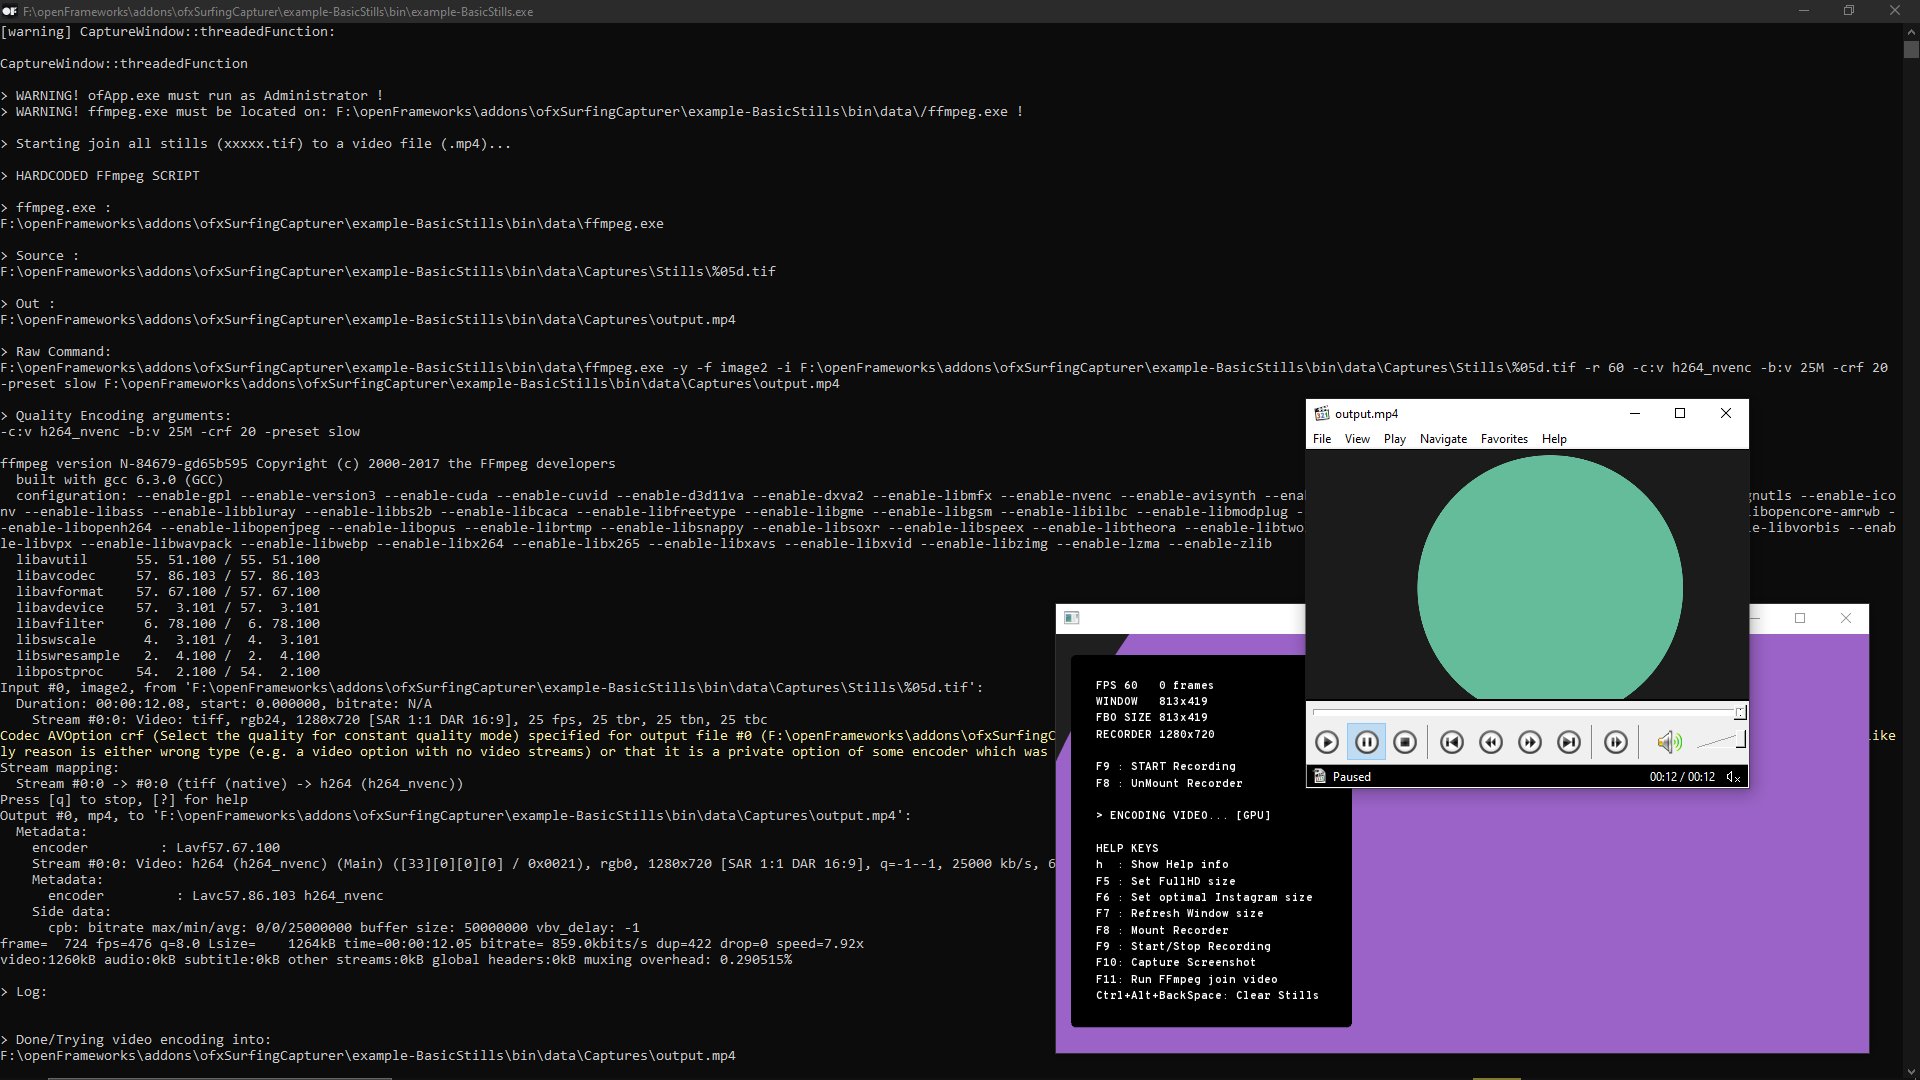
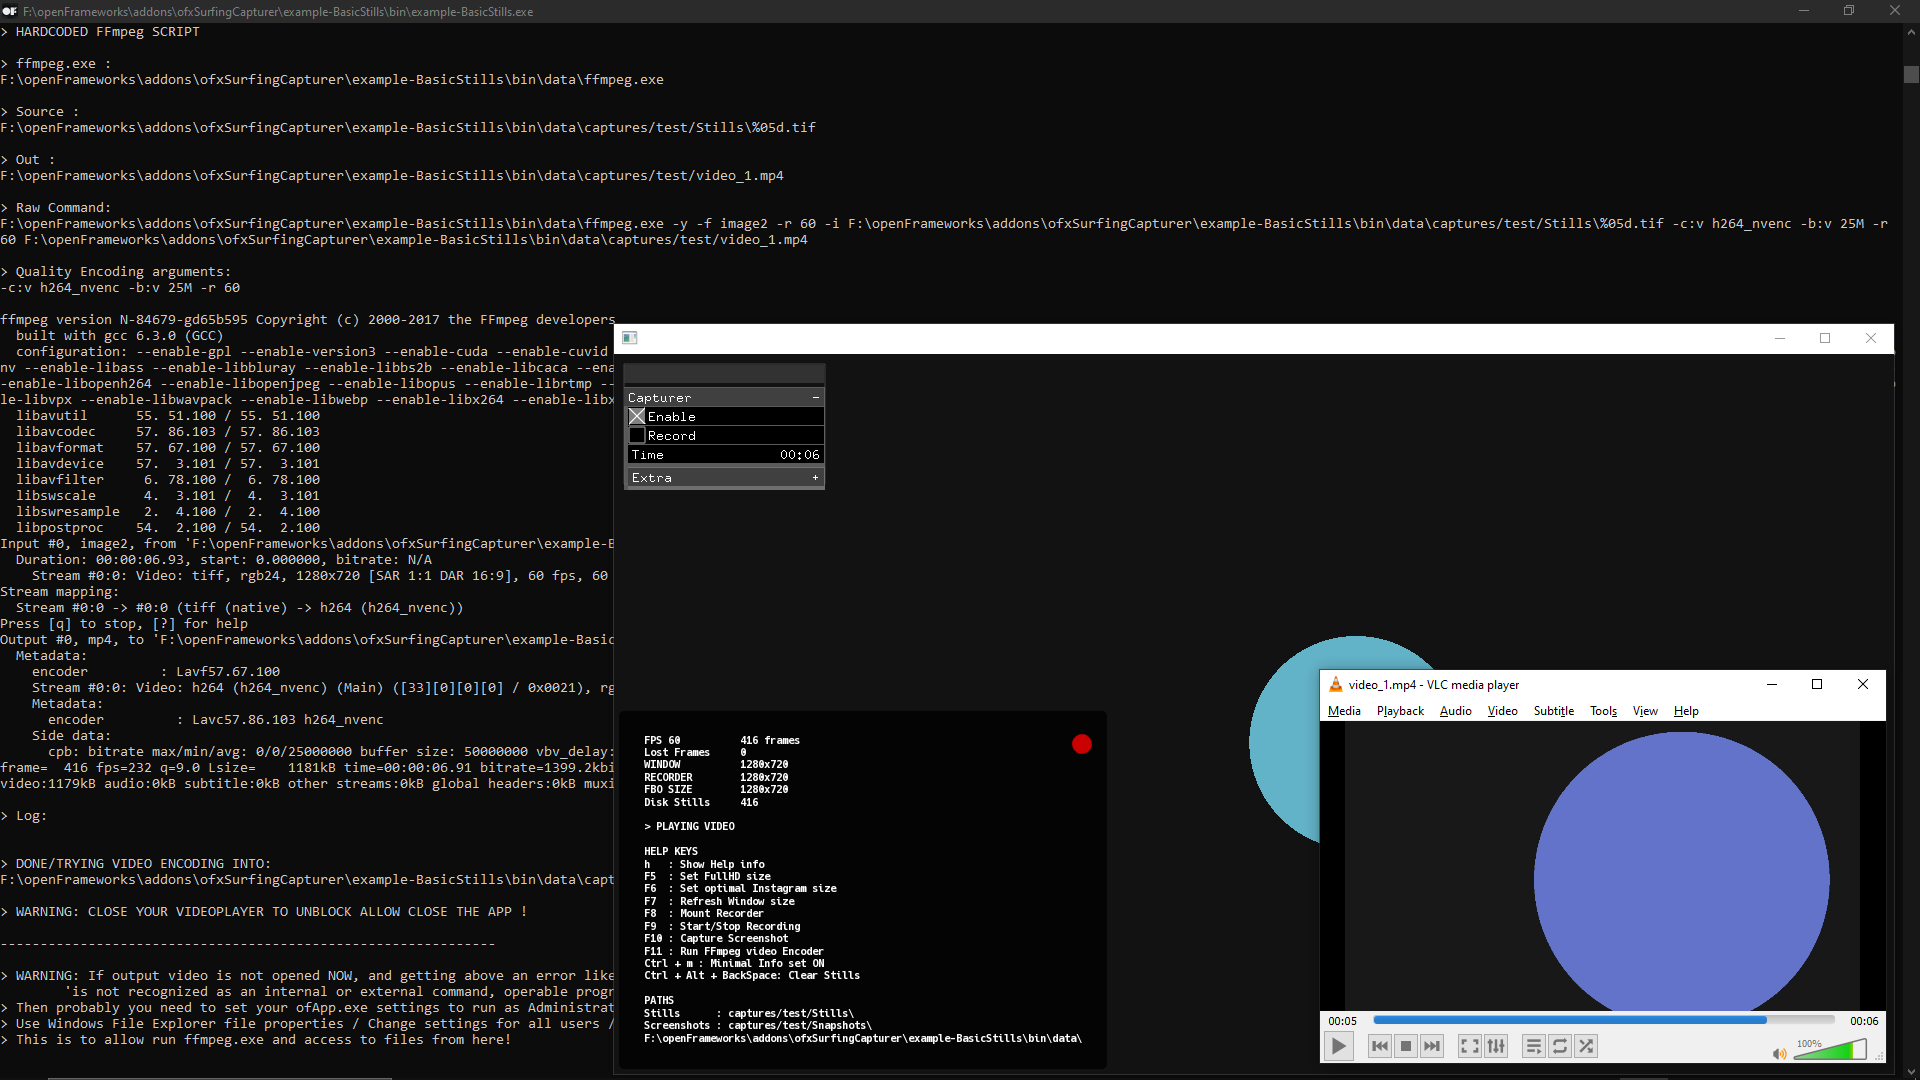
update screenshots

diff --git a/src/ofxSurfing_CaptureWindowStills.h b/src/ofxSurfing_CaptureWindowStills.h
@@ -3,27 +3,16 @@
 #include "ofMain.h"
 
 //	TODO: 
+// + add custom section to gui too
 // + check/allow change window capture size without breaking the capturer. not it's posible before call setup()
 // + allow gif exporter: https://github.com/pierrep/ofxGifImage
 // + allow instagram ready export
 // + draw rectangle draggable border
 //
-//	NOTES:
+//
+//	FFmpef NOTES:
 // nice settings handling and binaries: we can copy things from here
 // https://github.com/tyhenry/ofxFFmpeg/blob/master/src/ofxFFmpeg.h
-//
-// Add - vf format = yuv420p(or the alias - pix_fmt yuv420p) as an output option
-// ffmpeg -framerate 30 -i input_%05d.png -vf format=yuv420p output.mp4
-// Otherwise ffmpeg will attempt to preserve as much color information as it can, but most players can only decode YUV 4:2 : 0.
-//
-// troubles with non black encoding:
-// ffmpeg
-//-i "InputVideo2700p.mp4"
-//- vf "scale=w=-2:h=1920:sws_flags=spline+accurate_rnd:in_range=tv:out_range=tv"
-//- c:v libx264
-//- colorspace bt709 - color_trc bt709 - color_primaries bt709 - color_range tv
-//- pix_fmt yuv420p
-//- an - f mp4 "OutputVideo1920p.mp4"
 // https://www.reddit.com/r/ffmpeg/comments/8t54bm/converting_yuvj420p_to_yuv420p_issues_with_black/
 
 
@@ -40,11 +29,11 @@
 #define ANTIALIAS_NUM_SAMPLES 16 // only used on depth mode
 
 // platforms
-#ifdef TARGET_OSX
+#ifdef TARGET_OSX// tested without AMD GPU
 #endif
 #ifdef TARGET_WIN32
 #endif
-//#ifdef TARGET_LINUX
+//#ifdef TARGET_LINUX// not tested
 //#endif
 
 class CaptureWindow : public ofBaseApp, public ofThread
@@ -69,7 +58,7 @@ private:
 
 	//--------------------------------------------------------------
 	void Changed_params(ofAbstractParameter &e) {
-		if (!bDisableCallbacks) 
+		if (!bDisableCallbacks)
 		{
 			std::string name = e.getName();
 			if (name != timer_str.getName())
@@ -385,7 +374,6 @@ public:
 		cap_Fbo.allocate(cap_Fbo_Settings);
 		cap_Fbo.begin();
 		ofClear(0, 255);
-		//ofClear(0);
 		cap_Fbo.end();
 
 		// TODO:
@@ -395,7 +383,6 @@ public:
 			blitFbo.allocate(cap_Fbo_Settings);
 			blitFbo.begin();
 			ofClear(0, 255);
-			//ofClear(0);
 			blitFbo.end();
 		}
 	}
@@ -486,16 +473,6 @@ public:
 	void draw() {// must draw the scene content to show
 		if (bActive)
 		{
-			//blitFbo.begin();
-			//{
-			//	ofClear(0, 255);
-			//	//ofClear(0);
-			//	cap_Fbo.draw(0, 0, cap_w, cap_h);
-			//}
-			//blitFbo.end();
-			//blitFbo.draw(0, 0);
-
-			// TODO:
 			// BUG: depth/antialias
 			if (bDepth3D)
 			{
@@ -611,7 +588,8 @@ public:
 					{
 						info += "> PRESS F8  TO MOUNT CAPTURER" + sp + "\n";
 						info += "> PRESS F10 TO TAKE SNAPSHOT\n";
-						if (bShowMinimal) info += "> PRESS Ctrl + m TO SET MINIMAL INFO " + ofToString(!bShowMinimal ? "ON" : "OFF") + "\n";
+						if (bShowMinimal) info += "> PRESS M TO SET MINIMAL INFO " + ofToString(!bShowMinimal ? "ON" : "OFF") + "\n";
+						//if (bShowMinimal) info += "> PRESS Ctrl + m TO SET MINIMAL INFO " + ofToString(!bShowMinimal ? "ON" : "OFF") + "\n";
 					}
 
 					// 2. mounted, recording or running ffmpeg script
@@ -848,6 +826,18 @@ public:
 			bool mod_ALT = eventArgs.hasModifier(OF_KEY_ALT);
 			bool mod_SHIFT = eventArgs.hasModifier(OF_KEY_SHIFT);
 
+
+
+			// toggle show minimal
+			if (key == 'M')// && mod_CONTROL)
+			{
+				//if (!mod_SHIFT && !mod_ALT && mod_CONTROL) 
+				{
+					setToggleShowMinimal();
+					ofLogNotice(__FUNCTION__) << "bShowMinimal: " << (bShowMinimal ? "ON" : "OFF");
+				}
+			}
+
 			//-
 
 			switch (key)
@@ -862,17 +852,16 @@ public:
 				setToggleVisibleInfo();
 				break;
 
-				// toggle show minimal
-			case 'm':
-			{
-				if (!mod_SHIFT && !mod_ALT && mod_CONTROL) {
-					setToggleShowMinimal();
-					ofLogNotice(__FUNCTION__) << "bShowMinimal: " << (bShowMinimal ? "ON" : "OFF");
-				}
-			}
-			break;
+				//	// toggle show minimal
+				//case 'm':
+				//{
+				//	if (!mod_SHIFT && !mod_ALT && mod_CONTROL) {
+				//		setToggleShowMinimal();
+				//		ofLogNotice(__FUNCTION__) << "bShowMinimal: " << (bShowMinimal ? "ON" : "OFF");
+				//	}
+				//}
 
-			// set Full HD
+				// set Full HD
 			case OF_KEY_F5:
 			{
 				ofSetWindowShape(1920, 1080);
@@ -1014,7 +1003,8 @@ private:
 
 		infoHelpKeys += "F10 : Capture Screenshot"; infoHelpKeys += "\n";
 		infoHelpKeys += "F11 : Run FFmpeg video Encoder"; infoHelpKeys += "\n";
-		infoHelpKeys += "Ctrl + m : Minimal Info set " + ofToString(!bShowMinimal ? "ON" : "OFF") + "\n";
+		infoHelpKeys += "M   : Minimal Info set " + ofToString(!bShowMinimal ? "ON" : "OFF") + "\n";
+		//infoHelpKeys += "Ctrl + m : Minimal Info set " + ofToString(!bShowMinimal ? "ON" : "OFF") + "\n";
 		infoHelpKeys += "Ctrl + Alt + BackSpace: Clear Stills"; infoHelpKeys += "\n";
 
 		if (!bShowMinimal)
@@ -1317,7 +1307,7 @@ private:
 					// 1. prepare source and basic settings: auto overwrite file, fps, size, stills source
 
 					cmd += ffmpeg + " ";
-					
+
 					cmd += "-y -f image2 ";
 					cmd += "-r 60 ";
 					cmd += "-i " + filesSrc + " ";

diff --git a/example-BasicStills/src/ofApp.cpp b/example-BasicStills/src/ofApp.cpp
@@ -24,41 +24,41 @@ void ofApp::setup() {
 	//capturer.setPathRoot("F:\\openFrameworks\\addons\\ofxSurfingCapturer\\example-BasicStills\\bin\\data\\");
 
 	// we don't need depth testing for this 2D scene
-	capturer.setDephEnabled(false);
-
-	// set to using CPU instead GPU when enconding video
-	//capturer.setFfpmegGpu(false);
+	//capturer.setDephEnabled(false);
 
 	//-
 
 	capturer.setOutputFilename("video_1");
-	capturer.setup("captures/test/", OF_IMAGE_FORMAT_TIFF);
 
 	//-
 
+	capturer.setup("captures/test/", OF_IMAGE_FORMAT_TIFF);
 	// capturer.setup();
 	// customizable using arguments: destination, ffmpeg.exe and IMAGE_FORMAT.
 	// default destination is bin/data/Captures. default image format is TIFF.
 
-	//capturer.setActive(false); 
-	// make gui hidden/visible. visible by default.
+	//capturer.setOverwriteVideoOut(false); 
+	// true by default. overwrites output.mp4 file. 
+	// when setted to false will append timestamp to filename to allow multiple captures.
+
+	//-
+
+	// FFmpeg options
+
+	// set to using CPU instead default GPU (Nvidia) when enconding video
+	//capturer.setFfpmegGpu(false); 
+	// Nvidia GPU HW accelerated is enabled by default. 
+	// disable if you have an AMD GPU or you prefer CPU encoding
 
 	// customizable FFmpeg script:
 	//capturer.setFFmpegScript("-r 60 -c:v h264_nvenc -b:v 25M -crf 20 -preset slow");
 	// this is the same interal harcoded GPU script. 
 	// when you customize this script, take care of not duplicate things, re adding ffmpeg.exe, source, out...etc because they are already included !
 
-	//capturer.setFfpmegGpu(false); 
-	// Nvidia GPU HW accelerated is enabled by default. 
-	// disable if you have an AMD GPU or you prefer CPU encoding
-
-	//capturer.setOverwriteVideoOut(false); 
-	// true by default. overwirtes output.mp4 file. 
-	// when setted to false will add timestamp to filename.
-
 	//-
 
 	// local gui
+	// optional. not required bc you can use command keys
 	gui.setup();
 	gui.add(capturer.params);
 	capturer.refreshGui(gui);// refresh collapse sub menus
